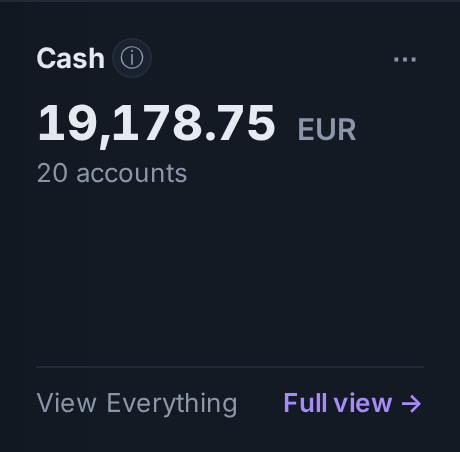
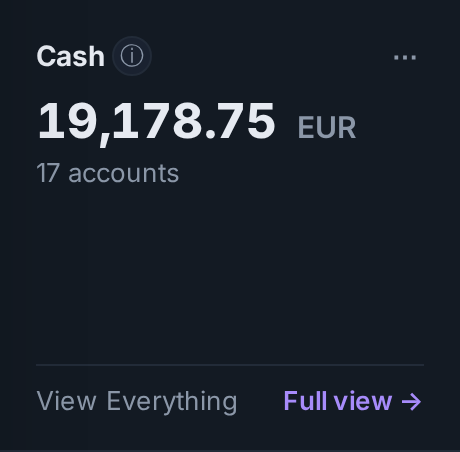
fix(dashboards): the key-figure split keeps „Cashquote“ and its figure together, and the gallery shows the corrected cash widgets (S32 closing act)
At S the legend's new label wrapped between „Cash quote“ and its figure;
the pair now wraps as one. The widget gallery, regenerated, changes only
where these fixes change a widget: cash_accounts at S (17 accounts, the
three dollar accounts without a rate no longer counted) and
wealth_key_figures at S and row (the quote named). The other pictures the
run rewrote differed by a pixel offset alone and are left as committed.

Checks: dashboard_holdings_widgets_test.exs; browser walks
widget_anatomy_test.exs and holdings_starter_test.exs.

diff --git a/priv/static/app.css b/priv/static/app.css
@@ -18180,6 +18180,12 @@ a.widget-row:hover .widget-row__label {
   color: var(--color-text);
 }
 
+/* The cash quote keeps its name and figure together: where the S tile is
+   too narrow, the pair wraps as one (S32 closing act). */
+.key-figures__quote {
+  white-space: nowrap;
+}
+
 .key-figures__swatch {
   display: inline-block;
   width: 10px;
